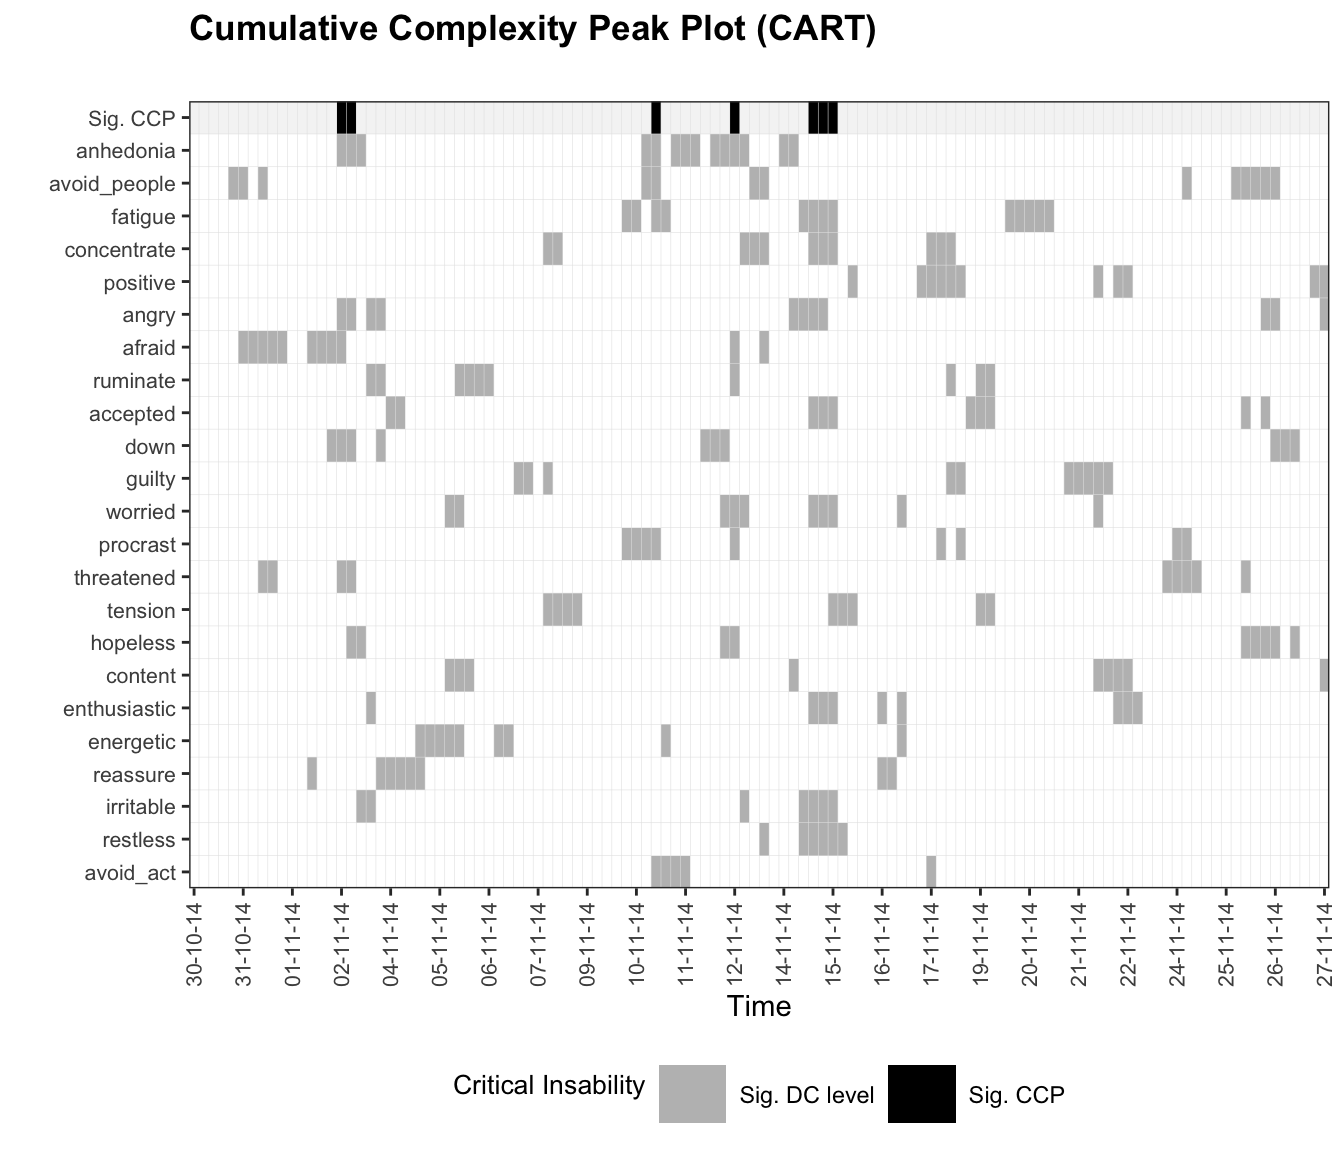
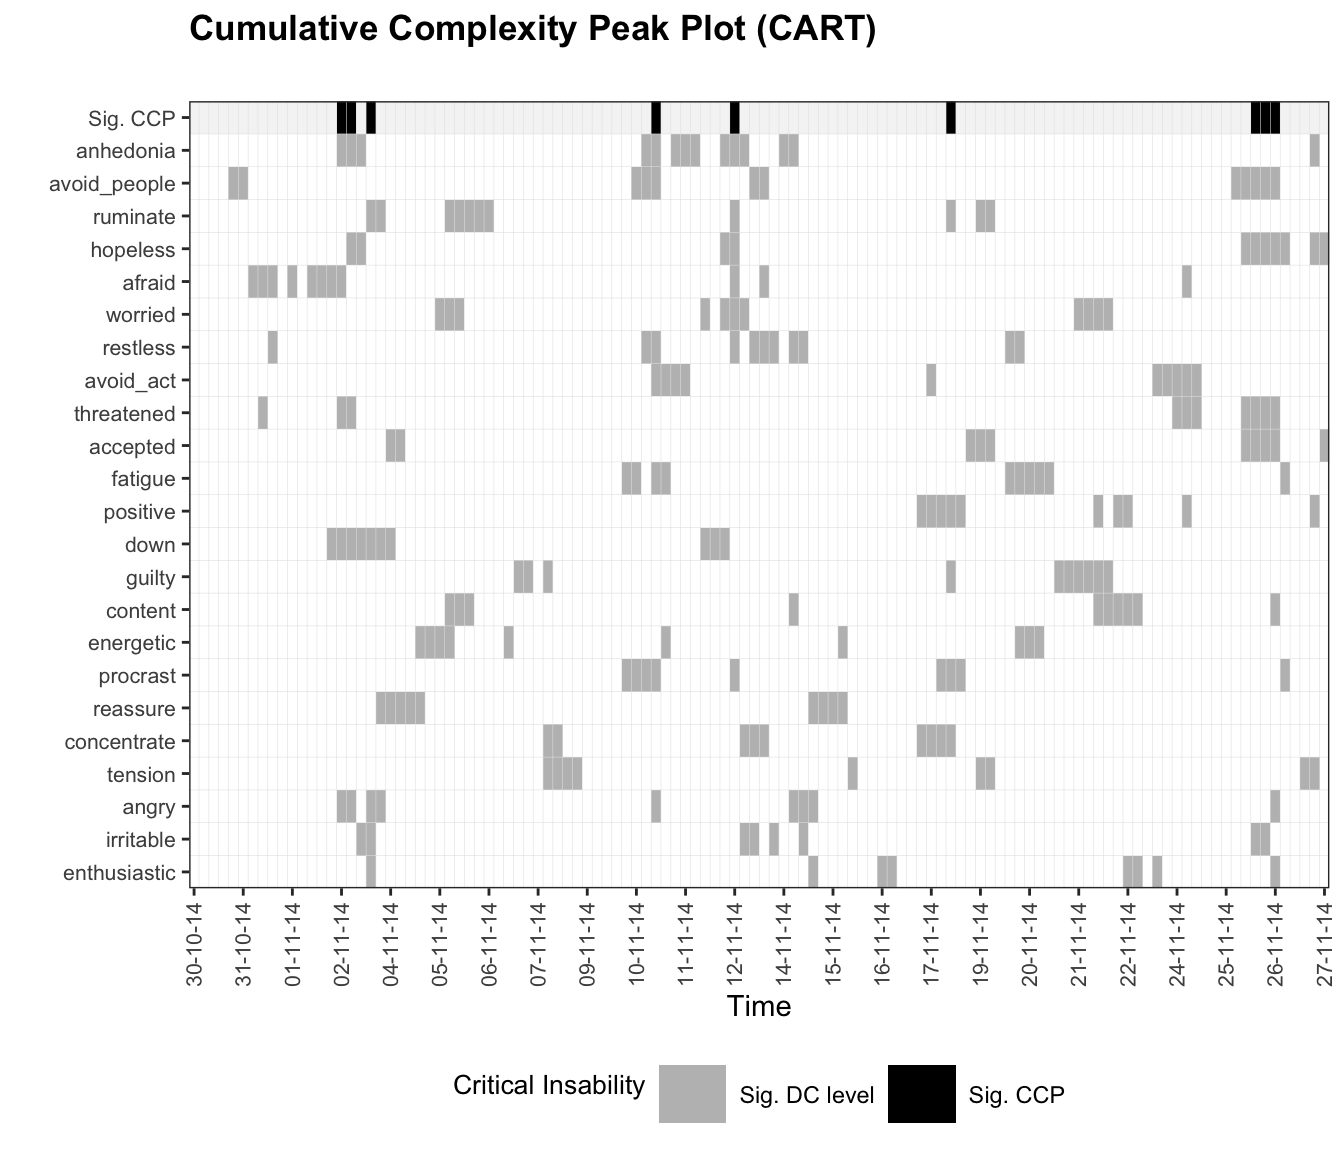
impute ts vignette

diff --git a/docs/articles/RecurrenceNetworks.html b/docs/articles/RecurrenceNetworks.html
@@ -174,11 +174,11 @@
 <span class="co">#&gt; [1] 0.3158716</span>
 <span class="kw pkg">qgraph</span><span class="kw ns">::</span><span class="fu"><a href="https://rdrr.io/pkg/qgraph/man/smallworldness.html">smallworldness</a></span>(<span class="no">g1</span>)
 <span class="co">#&gt;       smallworldness         trans_target averagelength_target </span>
-<span class="co">#&gt;           6.59361853           0.31587164         215.96216865 </span>
+<span class="co">#&gt;           6.62627220           0.31587164         215.96216865 </span>
 <span class="co">#&gt;          trans_rnd_M         trans_rnd_lo         trans_rnd_up </span>
-<span class="co">#&gt;           0.04091474           0.03200347           0.05021683 </span>
+<span class="co">#&gt;           0.04074926           0.03252255           0.04839549 </span>
 <span class="co">#&gt;  averagelength_rnd_M averagelength_rnd_lo averagelength_rnd_up </span>
-<span class="co">#&gt;         184.44662075         181.74830296         194.24476187</span>
+<span class="co">#&gt;         184.61036206         181.75142174         194.23978304</span>
 
 <span class="no">recs1</span> <span class="kw">&lt;-</span> <span class="kw pkg">igraph</span><span class="kw ns">::</span><span class="fu"><a href="https://rdrr.io/pkg/igraph/man/centr_degree.html">centr_degree</a></span>(<span class="no">g1</span>)
 
@@ -231,11 +231,11 @@
 <span class="co">#&gt; [1] 0.3422773</span>
 <span class="fu"><a href="https://rdrr.io/pkg/qgraph/man/smallworldness.html">smallworldness</a></span>(<span class="no">g2</span>)
 <span class="co">#&gt;       smallworldness         trans_target averagelength_target </span>
-<span class="co">#&gt;          11.04884057           0.34227726          77.69775479 </span>
+<span class="co">#&gt;          11.03601530           0.34227726          77.69775479 </span>
 <span class="co">#&gt;          trans_rnd_M         trans_rnd_lo         trans_rnd_up </span>
-<span class="co">#&gt;           0.02324733           0.01547816           0.03061576 </span>
+<span class="co">#&gt;           0.02322188           0.01651015           0.03130547 </span>
 <span class="co">#&gt;  averagelength_rnd_M averagelength_rnd_lo averagelength_rnd_up </span>
-<span class="co">#&gt;          58.30694445          55.86378723          68.88525545</span>
+<span class="co">#&gt;          58.17549102          55.86782324          67.06936134</span>
 
 <span class="no">recs2</span> <span class="kw">&lt;-</span> <span class="fu"><a href="https://rdrr.io/pkg/igraph/man/centr_degree.html">centr_degree</a></span>(<span class="no">g2</span>)
 
@@ -288,11 +288,11 @@
 <span class="co">#&gt; [1] 0.3300908</span>
 <span class="fu"><a href="https://rdrr.io/pkg/qgraph/man/smallworldness.html">smallworldness</a></span>(<span class="no">g3</span>)
 <span class="co">#&gt;       smallworldness         trans_target averagelength_target </span>
-<span class="co">#&gt;         29.138103866          0.330090791         13.959812762 </span>
+<span class="co">#&gt;         28.832107774          0.330090791         13.959812762 </span>
 <span class="co">#&gt;          trans_rnd_M         trans_rnd_lo         trans_rnd_up </span>
-<span class="co">#&gt;          0.010282101          0.005184825          0.017509728 </span>
+<span class="co">#&gt;          0.010357977          0.004536316          0.018158236 </span>
 <span class="co">#&gt;  averagelength_rnd_M averagelength_rnd_lo averagelength_rnd_up </span>
-<span class="co">#&gt;         12.670371372         12.063584824         19.890985859</span>
+<span class="co">#&gt;         12.629830007         12.058357329         19.878833161</span>
 
 <span class="no">recs3</span> <span class="kw">&lt;-</span> <span class="fu"><a href="https://rdrr.io/pkg/igraph/man/centr_degree.html">centr_degree</a></span>(<span class="no">g3</span>)
 

diff --git a/docs/articles/imputemissingsata.html b/docs/articles/imputemissingsata.html
@@ -316,7 +316,7 @@
 <div id="visual-inspection" class="section level3">
 <h3 class="hasAnchor">
 <a href="#visual-inspection" class="anchor"></a>Visual inspection</h3>
-<p>Function <code><a href="https://SteffenMoritz.github.io/imputeTS/reference/plotNA.imputations.html">imputeTS::plotNA.imputations()</a></code> is an excellent way to visualise the imputation result.</p>
+<p>Function <code><a href="https://SteffenMoritz.github.io/imputeTS/reference/ggplot_na_imputations.html">imputeTS::ggplot_na_imputations()</a></code> is an excellent way to visualise the imputation result.</p>
 <div class="sourceCode" id="cb17"><html><body><pre class="r"><span class="no">truth</span> <span class="kw">&lt;-</span> <span class="fu"><a href="https://rdrr.io/r/base/list.html">list</a></span>(<span class="no">zscore</span>, <span class="no">unif_discrete</span>, <span class="no">cat_unordered</span>, <span class="no">cat_ordered</span>, <span class="no">df_vars</span>$<span class="no">angry</span>, <span class="no">df_vars</span>$<span class="no">ruminate</span>, <span class="no">df_vars</span>$<span class="no">hours</span>)
 
 <span class="kw">for</span>(<span class="no">c</span> <span class="kw">in</span> <span class="fl">1</span>:<span class="fu"><a href="https://rdrr.io/r/base/nrow.html">NCOL</a></span>(<span class="no">df_vars</span>)){

diff --git a/docs/articles/dynamiccomplexity.html b/docs/articles/dynamiccomplexity.html
@@ -313,9 +313,10 @@
 <div class="sourceCode" id="cb15"><html><body><pre class="r"><span class="co">#  CART</span>
 <span class="no">dateTimesIMP</span>[<span class="no">ccp.caseIMP</span>$<span class="no">sig.peaks</span><span class="kw">&gt;</span><span class="fl">0</span>]</pre></body></html></div>
 <pre><code>&gt; [1] "2014-11-02 21:27:00 CET" "2014-11-03 09:54:00 CET"
-&gt; [3] "2014-11-10 21:05:00 CET" "2014-11-12 21:37:00 CET"
-&gt; [5] "2014-11-14 21:15:00 CET" "2014-11-15 09:18:00 CET"
-&gt; [7] "2014-11-15 13:30:00 CET"</code></pre>
+&gt; [3] "2014-11-03 17:42:00 CET" "2014-11-10 21:05:00 CET"
+&gt; [5] "2014-11-12 21:37:00 CET" "2014-11-18 13:54:00 CET"
+&gt; [7] "2014-11-26 09:37:00 CET" "2014-11-26 13:12:00 CET"
+&gt; [9] "2014-11-26 17:30:00 CET"</code></pre>
 </div>
 </div>
 <div id="plot-state-versus-complexity" class="section level2">
